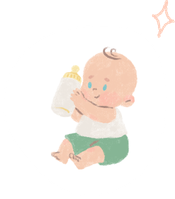
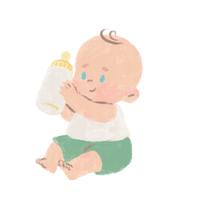
final commits

Changed region(s): [[0.1714, 0.1206, 0.8, 0.8744], [0.8571, 0.0, 1.0, 0.2111]]

diff --git a/src/components/Reminders.jsx b/src/components/Reminders.jsx
@@ -5,27 +5,31 @@ import reminder3 from '../assets/images/graphics/reminder-3.png'
 // import reminder4 from '../assets/images/graphics/reminder-4.png'
 import reminder5 from '../assets/images/graphics/reminder-5.png'
 import feet from '../assets/images/graphics/feet.png'
+import poolSign from '../assets/images/graphics/pool-sign.png'
 
 
 const Reminders = () => {
     return (
         <>
         <section className='min-h-[100vh] !py-0'>
-            <div className="container">
-                <div className="flex justify-end relative">
-                    <img
-                        src={start1}
-                        alt=""
-                        className="absolute right-0 w-[123px] h-[150px]"
-                    />
+            <div>
+                <div className='container'>
+                    <div className="flex justify-end relative">
+                        <img
+                            src={start1}
+                            alt=""
+                            className="absolute right-0 w-[123px] h-[150px]"
+                        />
+                    </div>
+                
+                    <h1 className="text-4xl mt-5">
+                        Reminders for <br /> the Big Day
+                    </h1>
                 </div>
-               
-                <h1 className="text-4xl mt-5">
-                    Reminders for <br /> the Big Day
-                </h1>
+                
                 <div className="grid grid-cols-2 mt-10">
-                    <div className='flex'>
-                        <img src={reminder1} alt="" className='h-[180px]' />
+                    <div className='flex relative flex items-center'>
+                        <img src={reminder1} alt="" className='relative mt-[-57px] scale-[1.8] ml-[-40px] h-[180px]' />
                     </div>
                     <div className='flex flex-col justify-center ms-3'>
                          <h3 className="text-2xl font-semibold">
@@ -46,20 +50,21 @@ const Reminders = () => {
                     </div>
                 </div>
                 <div className="grid grid-cols-2 ">
-                    <div className='flex flex-col justify-center pe-1'>
+                    <div className='flex flex-col justify-center ps-5 pe-1'>
                         <h3 className='text-2xl mt-5'>Gift Preferences</h3>
                         <p>Your presence is already a gift! However,  if you’d like to bless Kirsten with something extra, We welcome gifts in kind or monetary gifts.</p>
                     </div>
-                    <div className='flex'>
-                        <img src={reminder2} alt="" className='h-[200px]' />
+                    <div className='flex items-center relative'>
+                        <img src={reminder2} alt="" className='relative h-[200px] scale-[1.2] ms-[25px] mt-7' />
                     </div>
                 </div>
                 <div className="grid grid-cols-2 mt-7">
-                    <div className='flex'>
-                        <img src={reminder3} alt="" className='h-[200px]'/>
+                    <div className='flex relative flex-col justify-between'>
+                        <img src={reminder3} alt="" className='h-[200px] relative scale-[1.3] pt-5 ml-[-30px]'/>
+                        <img src={poolSign} alt="" className="pb-3 relative"/>
                     </div>
                     <div className='flex flex-col justify-center ms-3'>
-                        <div className="mt-0">
+                        <div className="mt-0 me-5">
                             <h3 className="text-2xl font-semibold">
                                 Party Dress Code
                             </h3>
@@ -89,7 +94,7 @@ const Reminders = () => {
                     </div>
                 </div>
                 <div className="grid grid-cols-2 mt-5">
-                    <div className='flex flex-col justify-center pe-1'>
+                    <div className='flex flex-col justify-center pe-1 ms-5'>
                                                <h3 className='text-2xl'>Capture the Memories</h3>
                         <p>Take photos and videos throughout the celebration and share your precious moments with us through our shared photo album. </p>
                     </div>

diff --git a/src/components/BirthdayDetails.jsx b/src/components/BirthdayDetails.jsx
@@ -25,7 +25,14 @@ const BirthdayDetails = () => {
                 <div className="col-span-2">
                     <h3 className='text-2xl mt-5'>Church Location</h3>
                     <p>Archdiocesan Shrine of St. Thérèse of the Child Jesus</p>
-                    <a href=""className='btn btn-primary mt-3 w-max'>Get Gooogle Maps Location</a>
+                    <a
+                        href="https://maps.app.goo.gl/3XhTn46iuSzNBEzW8"
+                        target="_blank"
+                        rel="noopener noreferrer"
+                        className="btn btn-primary mt-3 w-max"
+                    >
+                        Get Google Maps Location
+                    </a>
                     <div className='w-full flex justify-end'>
                         <img src={stars} alt="" className='mt-10 me-[-50px]' />
                     </div>
@@ -48,7 +55,14 @@ const BirthdayDetails = () => {
                         <h3 className='text-2xl'>Birthday <br /> Celebration</h3>
                     </div>
                     <p className='me-1'>The Privè by the Sea in  Vistamar Beach & Residential Estates</p>
-                    <a href=""className='btn btn-primary mt-3 !w-max'>Get Gooogle Maps Location</a>
+                     <a
+                        href="https://maps.app.goo.gl/hWZRCUvzURDy4P2A7"
+                        target="_blank"
+                        rel="noopener noreferrer"
+                        className="btn btn-primary mt-3 w-max"
+                    >
+                        Get Google Maps Location
+                    </a>
                     <div className='w-full flex justify-end'>
                         <img src={smallCircle} alt="" className='mt-10' />
                     </div>
